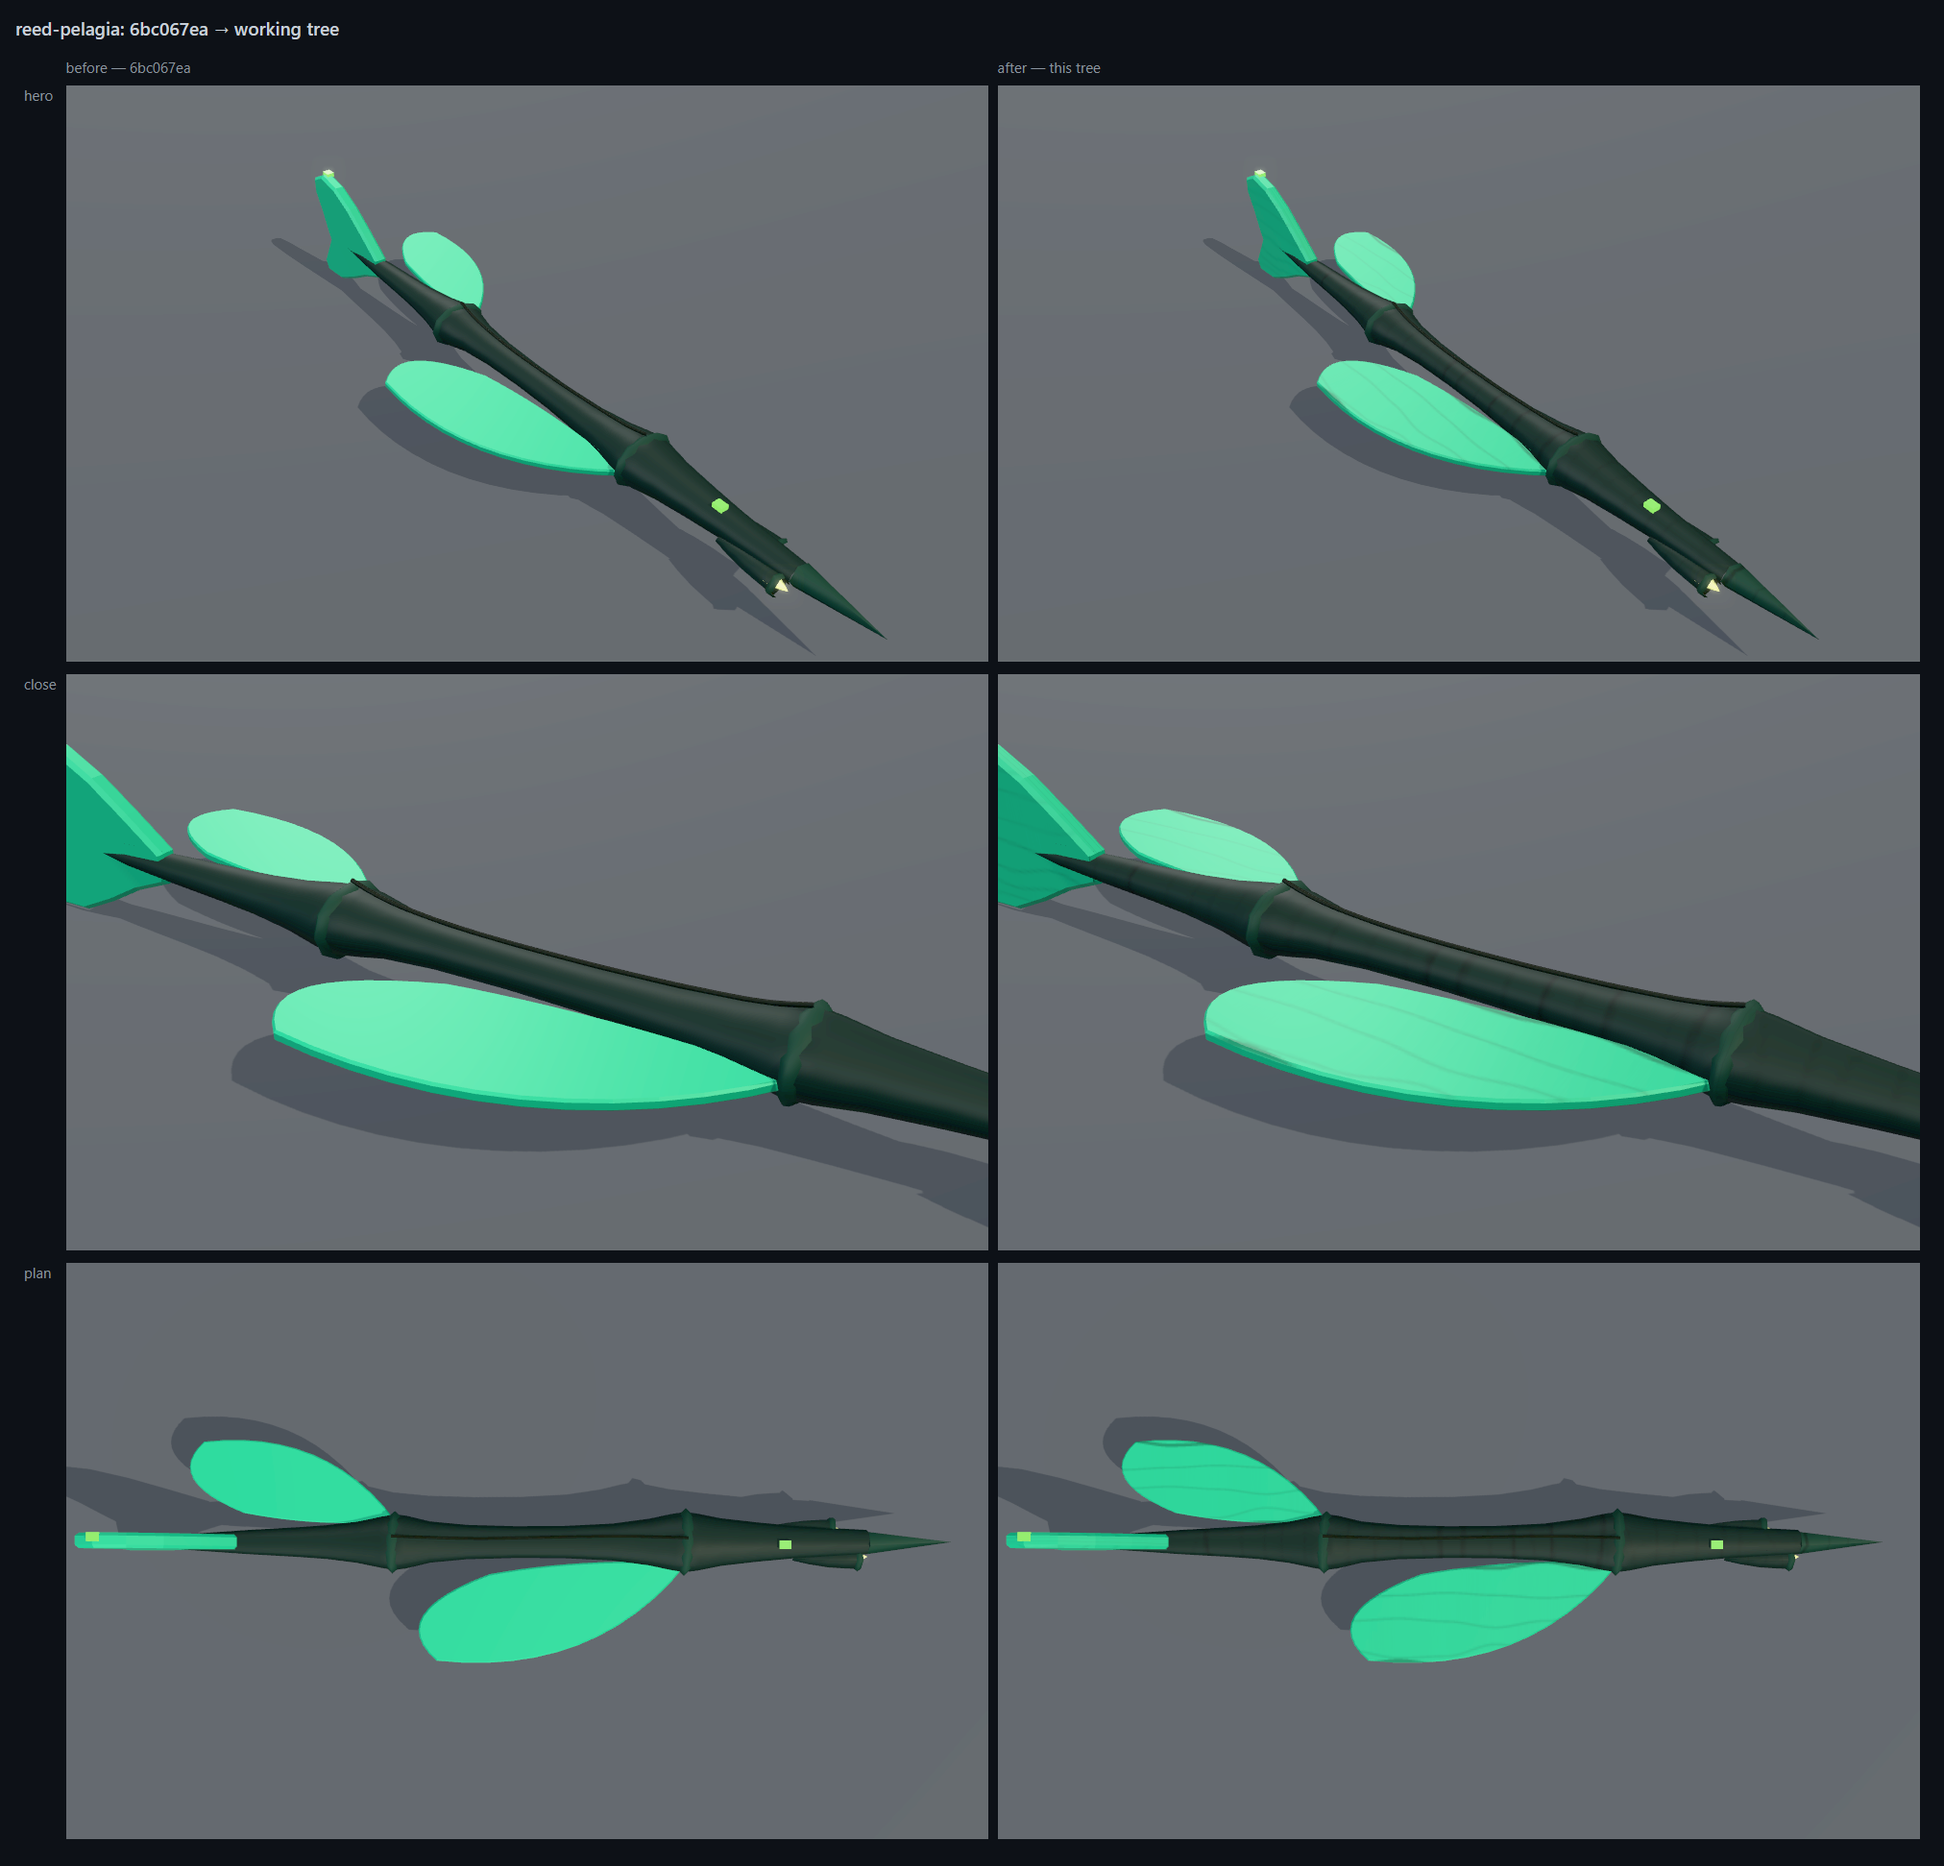
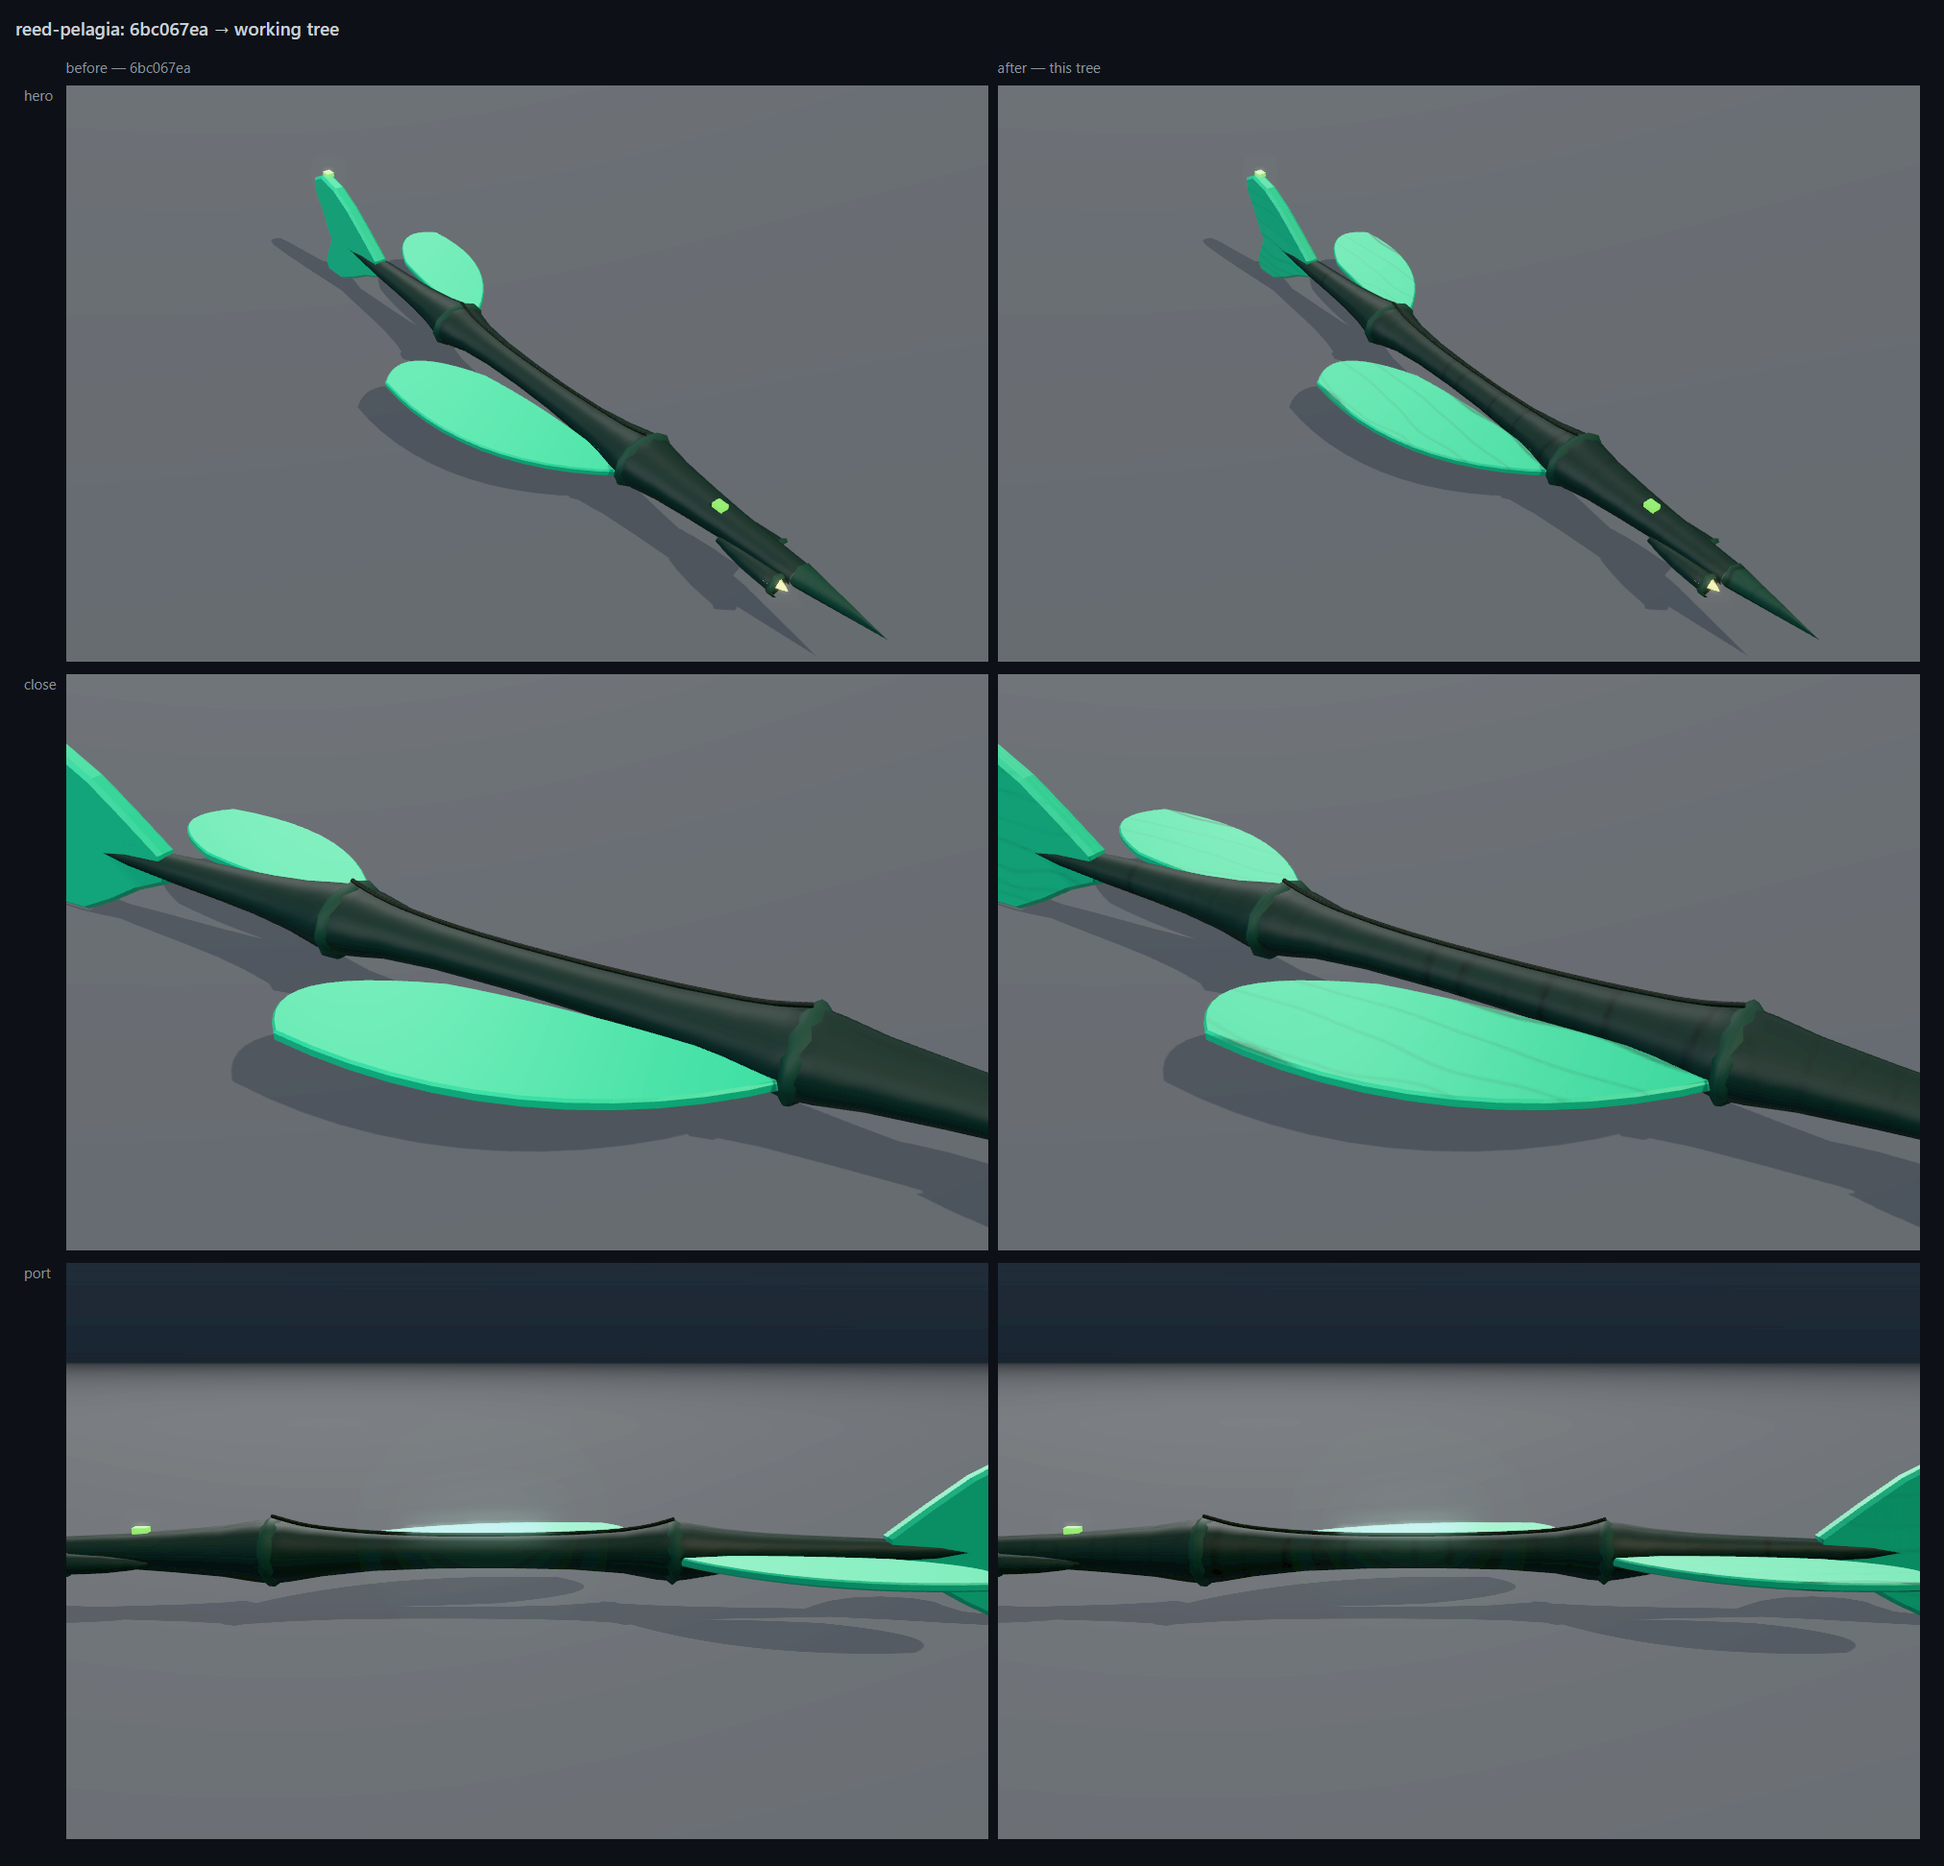
docs(art-direction): specify the Commune's grown sheet and the Reed on it (#1110)
The SPEC gains the grown pattern's numbers, why it repeats every plate,
the mean and bytes, and the Reed's layout. Audit row 6 names all four
navies. The lit table is reshot on the fixed sheet.

Claude-Session: https://claude.ai/code/session_01XPuBbCy6Aq43wXePNdg61H

Changed region(s): [[0.0311, 0.6794, 0.996, 0.8955]]

diff --git a/docs/art-direction.md b/docs/art-direction.md
@@ -669,6 +669,57 @@ levels, 4.7 % before `mirror`, all of it on those rounds. That, and a round part
 from world position rather than the part's centre (`layoutMesh`), are the layout's, and
 [#746](https://github.com/gunnargehtab/Echoes-of-the-Abyss/issues/746) holds both.
 
+The Commune's sheet ([#1110](https://github.com/gunnargehtab/Echoes-of-the-Abyss/issues/1110))
+keeps the layout machinery and takes a fourth draw mode, `grown`, for a navy whose Block 2 brief
+is "grown chitin-and-algae composite hull with growth rings ... nothing is painted": no plate at
+all, so no butt, lap, rivet, ramp, grime or stagger. It draws growth increments along each
+strake, lines of constant `v`, and the layout makes that one line two things: an unrolled part
+runs `v` along its axis, so the line is a ring round a stem, a pod or a `grownBody` orb (it keeps
+its sphere's type and unrolls), and a flat part runs `v` across its shorter extent, so the line
+runs along a leaf's or a fin's span. Four increments a **6 m** strake, a metre and a half each,
+the facet rule's own edge for the navy; each sits up to **0.3** of its pitch off its station by
+an integer hash and wanders **±0.5 m** across the strake on 4 m cells, because a
+line at a regular pitch reads as ruled paper and a ring at every station as the segmented worm
+`kit.mjs` `loft` warns of. A line is **0.15 m** at **0.84** of the light, and about one in four
+is a check, **0.3 m** at **0.55**, each varying by the line within ±30 % in width and ±10 % in
+depth: the Knights found 0.2 m survives the conn view's 3 px/m where 0.15 m mipmaps to a rumour,
+so the fine lines read close in and fade to a tone at range, and the checks are what survive.
+Both are held to a texel across the strake, as the lap is. **0.03** of tone is keyed on the
+increment, so the one step falls on a line and never on a strake's edge, under **0.04** of mottle
+in two octaves of 8 and 3.2 m cells and a **0.01** grain. Nothing on this sheet is a joint, so the
+plate, **16 m**, is two things only: the count a round part unrolls at, and the period of
+everything that varies along `u`, the wander's four cells and the mottle's two and five, each a
+whole number a plate. That period is what closes an unroll. A round part unrolls at whole plates,
+and one plate is half the **32 m** wrap, so a field repeating only every wrap met itself half a
+field out of phase at a one-plate part's unroll seam: the first sheet, at the Directorate's 8 m
+plate, left a row of dark diamonds down the Reed's port beam, one a ring, 51 levels off in the
+eight-strake band, where the fields a plate leave the two edges within the grain's 2. At 8 m with
+the fields a plate the coarse mottle would be one cell, flat along `u`, so the plate went to 16;
+a 16 m repeat is under one and a half periods along the 21.5 m starboard leaf. The pitch in metres is the part's, since the bands stop at eight
+strakes: the Reed's 60.5 m stem lays on the eight-strake band at 7.6 m a strake and 1.9 m an
+increment, and a 1.8 m ridge on the one-strake band at 0.45 m, a tone. The hero rings stay
+geometry (`growthRings`, `grownRings`, `drumRings`, ridges of 0.5 to 0.9 m), two to six times the
+drawn check, as the Consortium's `rivetRows` stand over its drawn rivets. `mirror` is off, since
+the Commune refuses a mirrored pair, and `untagged` leaves `bio_vein_unlit` bare, the vein
+family's unlit base and the Knights' `crystal_seam_unlit` precedent, and `grown_steel`, the
+structures' fitted collars and pipes and the one thing on a Commune model not grown. The sheet is
+**37,578 bytes** at a mean linear luminance of **0.903**: over the Consortium's 0.857, beside the
+Knights' 0.899 and under the Directorate's 0.938, whose chitin carries one seam a tergite where
+this carries a line an increment. On the GPU it is the same 512² RGBA8 upload with mipmaps,
+**1.33 MiB** once per navy present, no draw or triangle more. The Reed is the first hull, the
+owner's choice: two of the three hulls in the Commune's opening escort (`OPENING_ESCORT`), and its
+block names the surface, "growth rings at two nodes where the stem swells". Its 16 parts lay
+**1,149** faces flat and **897** unrolled (1,496 on the one-strake band, 90 on two, none on four,
+460 on eight), split **314** vertices and tag four materials, `chitin_hull`, `growth_ridge`,
+`algae_membrane` and `spore_pod`; `bio_vein_unlit` is laid out and bare, and the lamps are never
+tagged. `reed-pelagia.glb` goes from **122,148 to 132,652 bytes** (zlib's default gzip 37,407 to
+42,633) with its 16 parts, 2,046 triangles and outline unchanged, so the sprite rebake changes the
+albedo alone (`reed-albedo.png`, 3,623 to 7,662 bytes), the height and emissive maps byte for byte
+what they were and the glow on its gate-3 target of 1.06. [The lit table](screenshots/issue-1110/lit-table.png)
+shows the rings round the stem and the lines along the leaves. The Commune is Sorrowgate's navy,
+so this is the first sheet the tutorial's triplanar laminate meets in play: the laminate
+multiplies `diffuseColor` after `map_fragment`, the sheet under it.
+
 #### Ranked audit and remaining work
 
 The baseline is commit `1df288a` (28 September 2026), not the earlier #286 scene.
@@ -686,7 +737,7 @@ view's frame.
 | 3 | Bevel coverage and baked AO ([#1002](https://github.com/gunnargehtab/Echoes-of-the-Abyss/issues/1002)) | Both landed ("Bevels and baked occlusion — SPEC" above). Coverage measured: 30 of 190 extruded plates are bevelled, and plates are 3 % of 7,480 parts, so no primitive was added. The Knights' Bastion carries the first baked occlusion map, on its own UV set, read by the conn view alone, its silhouette unchanged; the next model is a call per model |
 | 4 | Vignette, chromatic split, camera sway ([#1003](https://github.com/gunnargehtab/Echoes-of-the-Abyss/issues/1003)) | All three are built ([Atmosphere rides on top](#atmosphere-rides-on-top-in-screen-space)). The vignette and the sway use no pass. The split is a colour copy and one full-screen draw after the halo, and gate 6 allocates both. Existing shader-driven kelp sway and water fog are different effects; do not duplicate them. Respect gate 8 and reduced motion |
 | 5 | GLB gzip ([#1004](https://github.com/gunnargehtab/Echoes-of-the-Abyss/issues/1004)) | Built. The nginx image's `mime.types` names no `glb`, so `packages/frontend/nginx.conf` names the type in the models' own location and gzips them at level 6. Delivery cost, not frame quality |
-| 6 | UV layout and trim sheets ([#1005](https://github.com/gunnargehtab/Echoes-of-the-Abyss/issues/1005)) | Landed on one hull a navy for three navies: the Consortium's Bulwark, the Directorate's Light Scout ([#1108](https://github.com/gunnargehtab/Echoes-of-the-Abyss/issues/1108)) and the Knights' Responsory ([#1109](https://github.com/gunnargehtab/Echoes-of-the-Abyss/issues/1109)), each on its navy's sheet ("UV layout and trim sheets — SPEC" above); the Commune has none. At #1005, 6,863 of 7,025 primitives carry UV0 and 13 carry `uvAlike`'s zeros, but attribute presence is not a layout: the Bulwark's 162 parts are laid out in metres by its script, and four materials are tagged for the Consortium's sheet, one PNG a navy attached at load, luminance only, hue still the palette's. Sorrowgate's triplanar surfaces are kept under it; the next hull is a call per hull |
+| 6 | UV layout and trim sheets ([#1005](https://github.com/gunnargehtab/Echoes-of-the-Abyss/issues/1005)) | Landed on one hull a navy for all four navies: the Consortium's Bulwark, the Directorate's Light Scout ([#1108](https://github.com/gunnargehtab/Echoes-of-the-Abyss/issues/1108)), the Knights' Responsory ([#1109](https://github.com/gunnargehtab/Echoes-of-the-Abyss/issues/1109)) and the Commune's Reed ([#1110](https://github.com/gunnargehtab/Echoes-of-the-Abyss/issues/1110)), each on its navy's sheet ("UV layout and trim sheets — SPEC" above). At #1005, 6,863 of 7,025 primitives carry UV0 and 13 carry `uvAlike`'s zeros, but attribute presence is not a layout: the Bulwark's 162 parts are laid out in metres by its script, and four materials are tagged for the Consortium's sheet, one PNG a navy attached at load, luminance only, hue still the palette's. Sorrowgate's triplanar surfaces are kept under it; the next hull is a call per hull |
 | 7 | Shallow caustics ([#1006](https://github.com/gunnargehtab/Echoes-of-the-Abyss/issues/1006)) | Decided: none. The sunlit layer is the milky Lid, which scatters rather than focuses, and the water ramp already carries what light reaches the Shelf ("Shallow caustics — SPEC" above). Nothing to build |
 | 8 | WebGPU/TSL ([#1007](https://github.com/gunnargehtab/Echoes-of-the-Abyss/issues/1007)) | Defer migration until a separate feasibility decision. Water, survey, surface and sway shader patches depend on the current WebGL pipeline; this is not a renderer-constructor swap. The feasibility note is written ([webgpu-feasibility.md](webgpu-feasibility.md)): every patch has a TSL equivalent, but under r169 frame-wide tone mapping holds gate 3 only if every material carries its own curve, one-pixel points cost gate 6 triangles, and the halo's depth copy costs gate 6 a call or a target |
 
